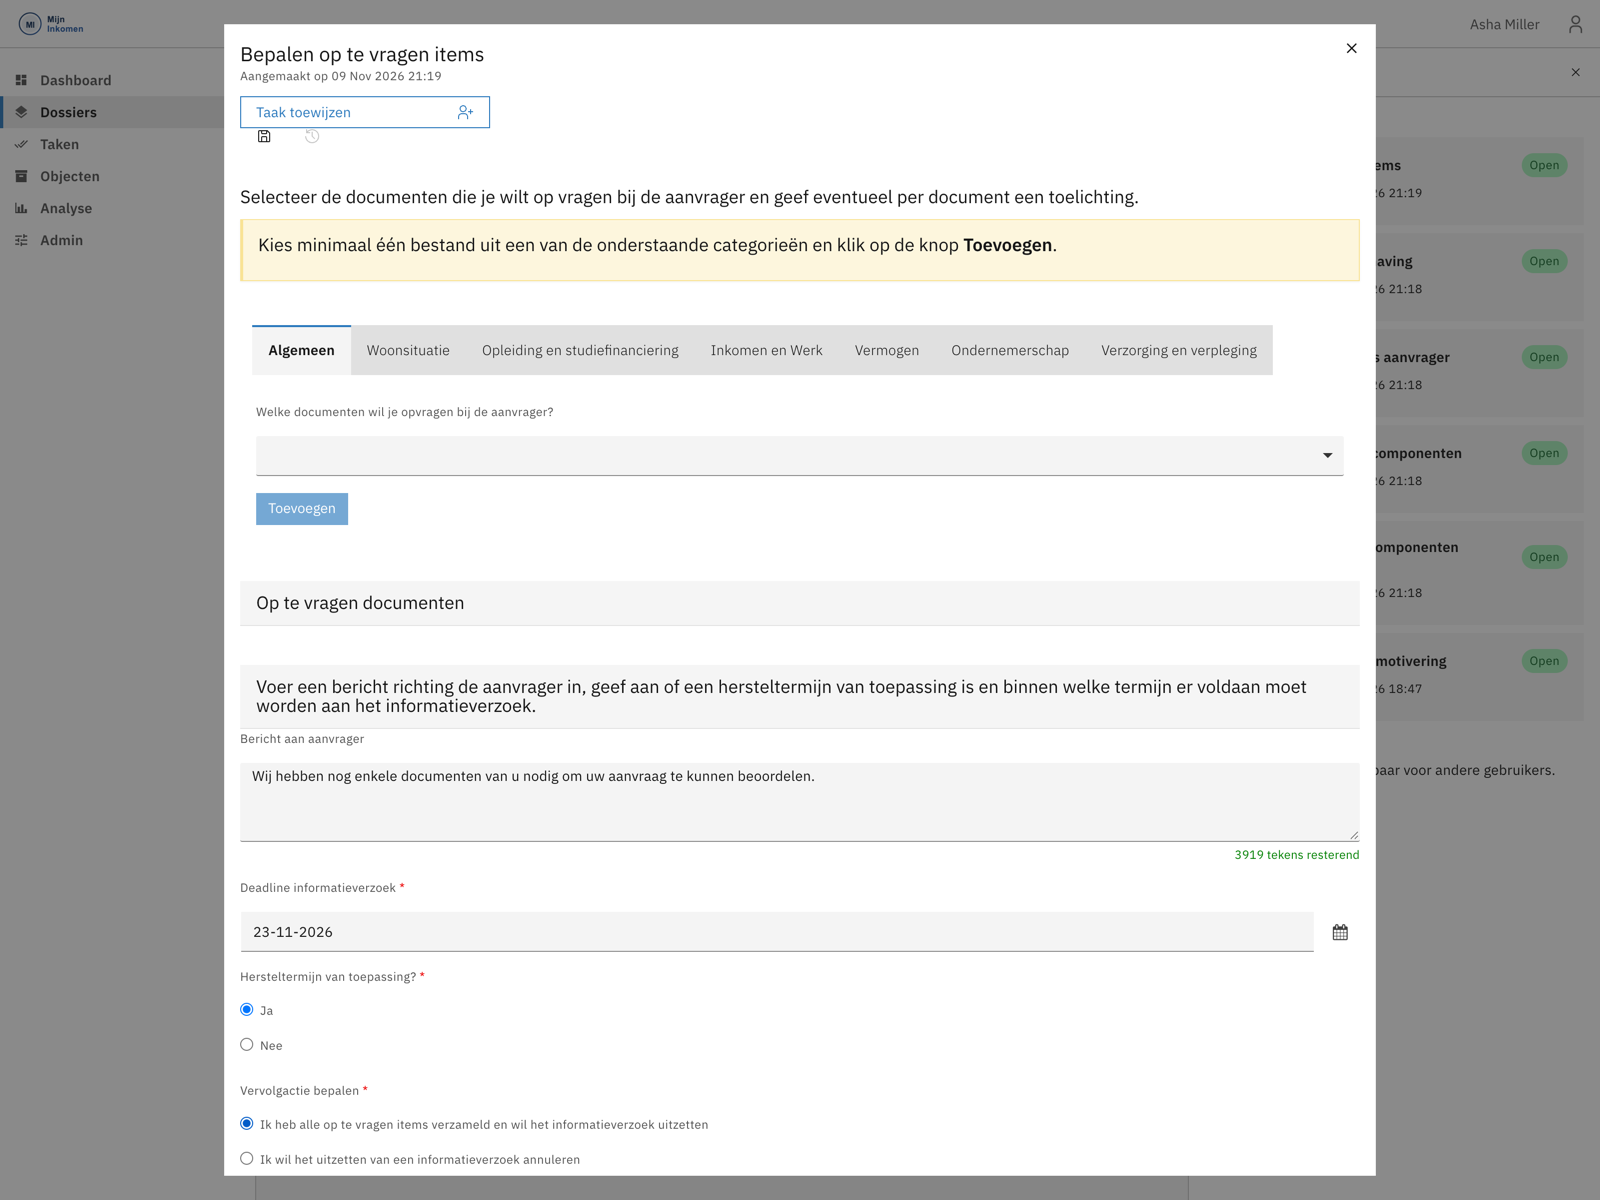
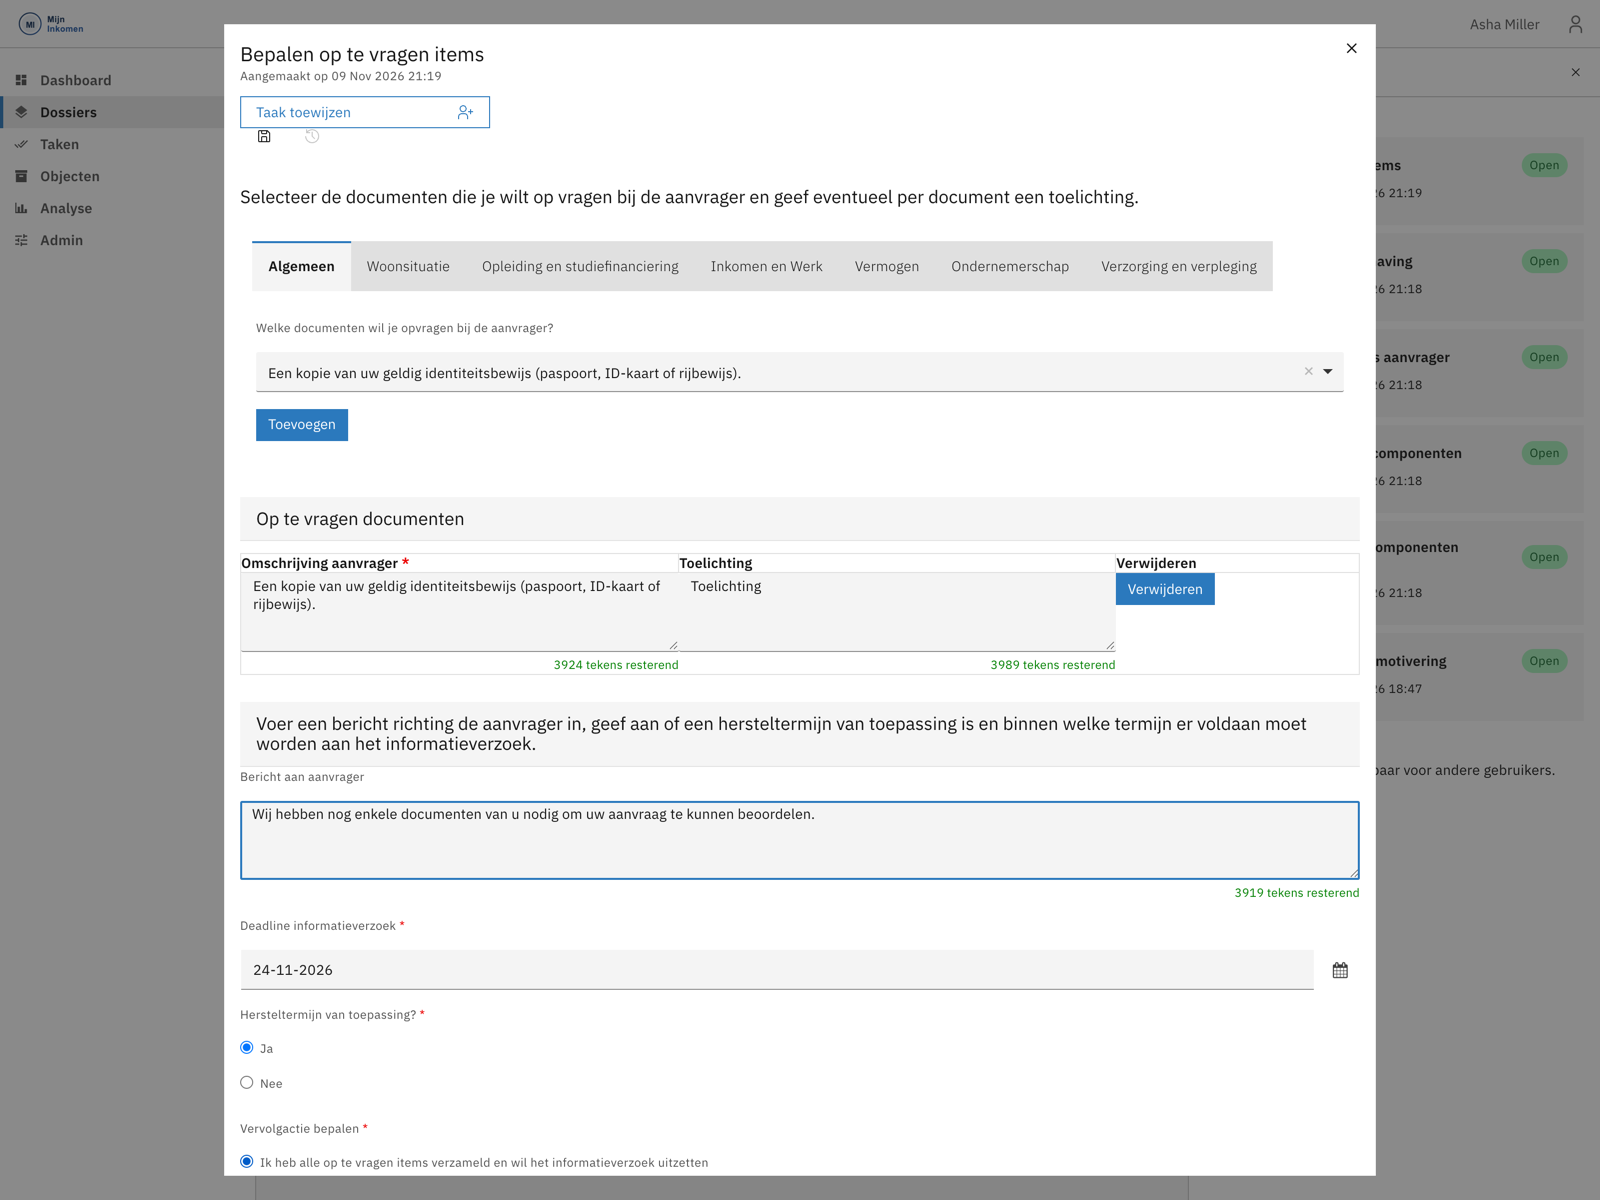
Informatieverzoek: de werkelijke flow in drie stappen
Het verzoek gaat niet direct de deur uit na het samenstellen. Er zit
een controlestap tussen: Brief genereren levert de taak Controleren
document op, met de keuze tussen Informatieverzoek uitzetten en Niet
akkoord, terug naar vorige stap.

Twee schermen toegevoegd (controlestap en het tabblad
Informatieverzoeken) en de eerdere beschrijving gecorrigeerd.

diff --git a/handleiding/informatieverzoek-uitzetten.md b/handleiding/informatieverzoek-uitzetten.md
@@ -4,7 +4,7 @@ description: Aanvullende stukken opvragen bij de inwoner, stap voor stap.
 
 # Een informatieverzoek uitzetten
 
-Mis je gegevens om de aanvraag te kunnen beoordelen, dan vraag je die op bij de inwoner. Dat gaat in twee taken: eerst de afweging, dan het samenstellen van het verzoek.
+Mis je gegevens om de aanvraag te kunnen beoordelen, dan vraag je die op bij de inwoner. Dat gaat in drie stappen: eerst de afweging, dan het samenstellen van het verzoek, en ten slotte het controleren van de brief voordat die de deur uit gaat.
 
 Zie [Informatieverzoeken](../functionaliteit/informatieverzoek.md) voor het volledige verloop inclusief deadlines, verlengen en annuleren.
 
@@ -52,9 +52,9 @@ Onder de documentenlijst leg je vast wat de inwoner te horen krijgt:
 | Veld | Toelichting |
 | --- | --- |
 | **Bericht aan aanvrager** | De tekst die in de brief en in het portaal verschijnt. Schrijf hier waarom je de stukken nodig hebt. |
-| **Deadline informatieverzoek** | Tot wanneer de inwoner de tijd heeft. Dit veld is voorgevuld met een standaardtermijn; je kunt hem aanpassen. |
+| **Deadline informatieverzoek** | Tot wanneer de inwoner de tijd heeft. Voorgevuld met een standaardtermijn; aanpasbaar. |
 | **Hersteltermijn van toepassing?** | Bepaalt of de wettelijke beslistermijn wordt opgeschort zolang de inwoner aan zet is. |
-| **Vervolgactie bepalen** | Wat er na het indienen gebeurt. |
+| **Vervolgactie bepalen** | Wat er na deze stap gebeurt. |
 
 {% hint style="warning" %}
 **De hersteltermijn is geen formaliteit.** Zet je hem op *Ja*, dan telt de tijd dat de inwoner aan zet is niet mee voor de wettelijke afhandeltermijn. Zet je hem op *Nee*, dan loopt die termijn gewoon door en komt de zaak sneller in de knel. Zie [Informatieverzoeken](../functionaliteit/informatieverzoek.md).
@@ -62,12 +62,32 @@ Onder de documentenlijst leg je vast wat de inwoner te horen krijgt:
 
 Bij **Vervolgactie bepalen** kies je uit drie opties:
 
-* **Ik heb alle op te vragen items verzameld en wil het informatieverzoek uitzetten** — het verzoek gaat eruit: er wordt een brief gegenereerd en de taak verschijnt bij de inwoner in het portaal.
+* **Ik heb alle op te vragen items verzameld en wil het informatieverzoek uitzetten** — door naar de brief.
 * **Ik wil het uitzetten van een informatieverzoek annuleren** — je ziet er toch van af; er gaat niets uit.
 * **Ik ben nog niet klaar met het verzamelen van op te vragen items** — je bewaart je werk en pakt het later op.
 
+Sluit af met **Brief genereren**. Het verzoek gaat daarmee nog niet de deur uit.
+
+## Stap 3 — De brief controleren
+
+Het systeem maakt de brief op en biedt hem aan ter controle, als taak **Controleren document**.
+
+![De taak Controleren document](../.gitbook/assets/15-controleren-document.png)
+
+Je hebt twee keuzes:
+
+* **Informatieverzoek uitzetten** — de brief klopt. Het verzoek gaat naar de inwoner en verschijnt als taak in het portaal.
+* **Niet akkoord, terug naar vorige stap** — je gaat terug om de items of de tekst aan te passen.
+
+{% hint style="info" %}
+Deze tussenstap is er met opzet: je ziet de daadwerkelijke brief voordat hij verstuurd wordt. Pas na *Informatieverzoek uitzetten* ontvangt de inwoner iets.
+{% endhint %}
+
 ## Daarna
 
-Is het verzoek uitgezet, dan gaat de zaak naar interne status **Informatieverzoek uitgezet** en wacht het systeem op de inwoner. Wat er daarna kan gebeuren — reactie via het portaal, handmatige aanlevering, verlopen deadline, of annuleren — staat in [Informatieverzoeken](../functionaliteit/informatieverzoek.md).
+Is het verzoek uitgezet, dan gaat de zaak naar interne status **Informatieverzoek uitgezet** en verschijnt de taak *Aanleveren informatie* bij de inwoner in het portaal. Het systeem wacht.
 
-De voortgang van alle verzoeken bij deze zaak zie je op het tabblad **Informatieverzoeken**.
+![Het tabblad Informatieverzoeken met het uitgezette verzoek](../.gitbook/assets/16-informatieverzoeken-tab.png)
+
+Op het tabblad **Informatieverzoeken** zie je per verzoek de datum, wie het heeft uitgezet, de deadline, of er een hersteltermijn geldt, welke stukken zijn opgevraagd en de meegestuurde toelichting. Wat er daarna kan gebeuren — reactie via het portaal, handmatige aanlevering, verlopen deadline, of annuleren — staat in [Informatieverzoeken](../functionaliteit/informatieverzoek.md).
+
